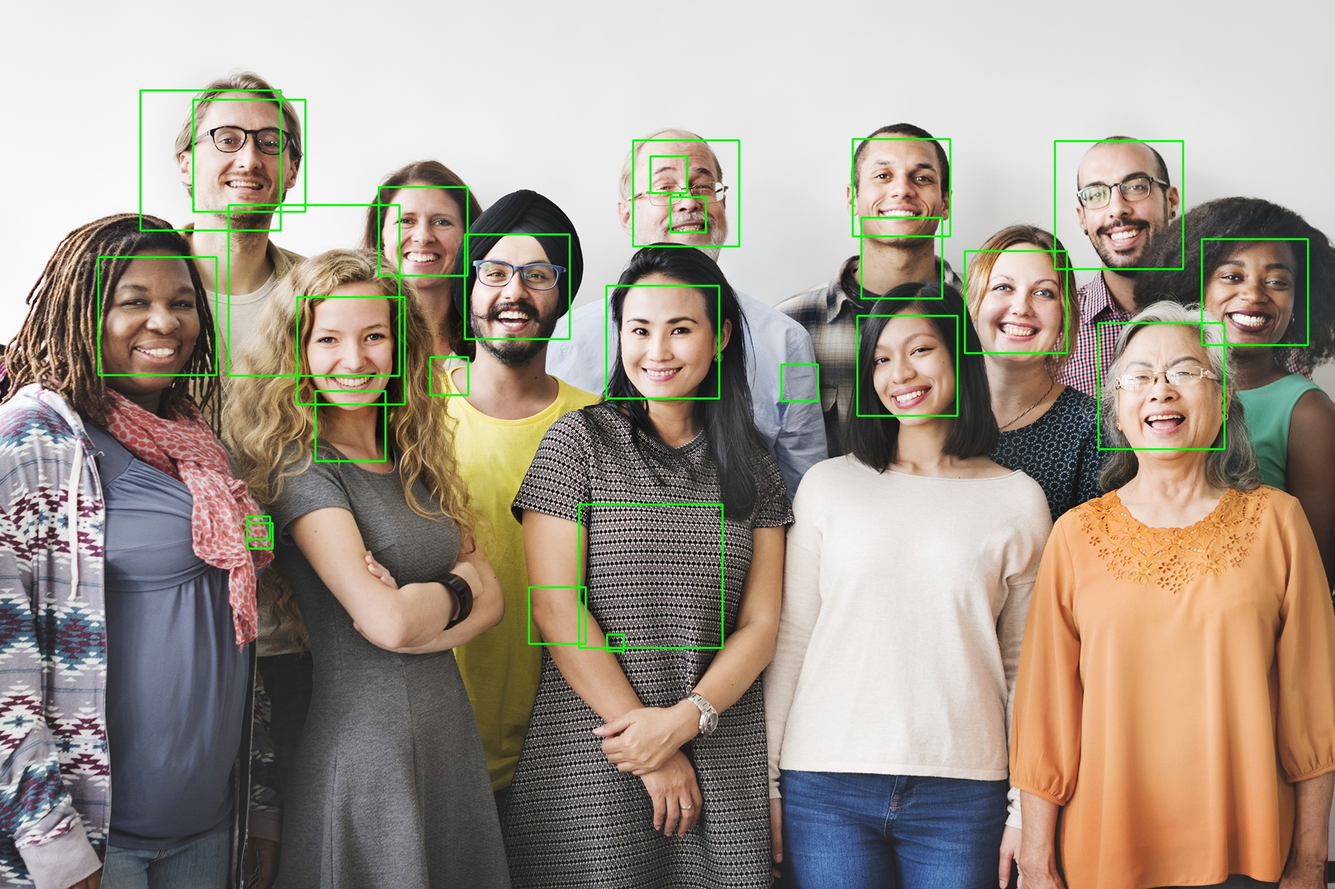
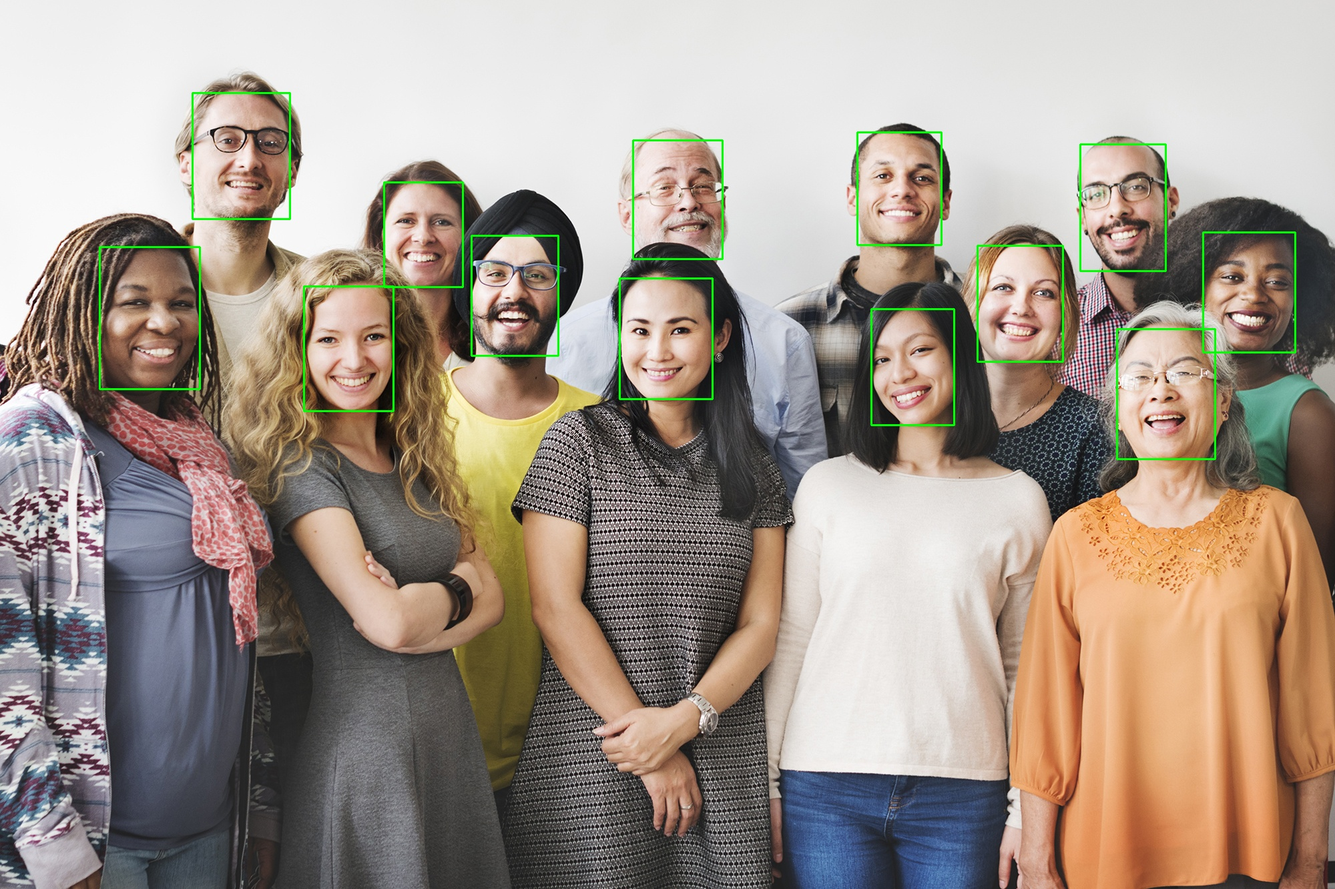
Offline Mode Update
Change Log:
- Offline Mode UI updated to reflect features in offline.py
- Results from Offline Mode test shows in Kivy window (Run time, Avg. Run Time, etc.)
- Offline backend script and new_kiv.py changed to connect to front-end.
- Offline mode name in Kivy window is changed to folder to make it clear to the user.

diff --git a/modes/offline.py b/modes/offline.py
@@ -22,24 +22,29 @@ from algorithms import mtcnn
 from algorithms import haar_cascade
 from algorithms import retina
 
-def runOffline(args):
+def runOffline(callingScript, args):
     print('Running Offline Mode')
     print('...')
     algorithm = args[0]
-    dataset = args[1]
-    limit = int(args[2])
-
+    dataset = args[1]  
     
+    if args[2] == '':
+        limit = 0
+    else:
+        limit = int(args[2])
     
-    path = config.inputPath + '/' + dataset
-    markPath = config.markingsLoc + dataset + '_markings.json'
+    markName = args[3]  
+  
+    #NOTE (SEAN VONNEGUT): Was best to get the whole path from kivy so I did not use config.markingsLoc. Let me know if it is needed.
+    path = dataset
+    markPath = dataset + '/' + markName + '.json' #JSON file must be inside the dataset folder if mark name is included.
 
     isTrained = False
-    if args[3] == 'y' :
+
+    if markName != "":
         isTrained = True
         data = utils.loadJSON(markPath)
         i = 0
-
 
     # if os.path.isfile(markPath) :
     #     data = utils.loadJSON(markPath)
@@ -51,6 +56,7 @@ def runOffline(args):
     facesDetected = 0
     confidence = 0
     totalRuntime = 0
+    totalImagesChecked = 0 #Counted instead of getting length of list since some files may have a invaild file type
     
     # Gets list paths to images in selected dataset
     images = os.listdir(path)
@@ -67,55 +73,58 @@ def runOffline(args):
         model = RetinaFace.build_model()
 
     for filename in tqdm(images) :
-        tic = utils.currentTime()
-        
-        if algorithm == 'mtcnn' :
-            result = mtcnn.getResult(path + '/' + filename, det)
-        elif algorithm == 'haar' :
-            result = haar_cascade.getResult(path + '/' + filename, det)
-        elif algorithm == 'retina' :
-            result = retina.getResult(path + '/' + filename, model)
+        if (filename[-3:] == "png") | (filename[-3:] == "jpg"): #Accepted file types
+            tic = utils.currentTime()
             
-        toc = utils.currentTime()
+            if algorithm == 'mtcnn' :
+                result = mtcnn.getResult(path + '/' + filename, det)
+            elif algorithm == 'haar' :
+                result = haar_cascade.getResult(path + '/' + filename, det)
+            elif algorithm == 'retina' :
+                result = retina.getResult(path + '/' + filename, model)
+                
+            toc = utils.currentTime()
 
-        if isTrained :
-            marks = data[i]
-            i+=1
-            isSuccess = runTest(result, marks)
-        else : 
-            isSuccess = 'na'
+            if isTrained :
+                marks = data[i]
+                i+=1
+                isSuccess = runTest(result, marks)
+            else : 
+                isSuccess = 'na'
 
-        result.setAny(
-            resultSaveLoc=config.offlineOutputPath,
-            algorithm=algorithm,
-            dateTime=utils.dateTime(),
-            runTime=round(toc-tic, 0),
-            isSuccess=isSuccess
-        )
-        
+            result.setAny(
+                resultSaveLoc=config.offlineOutputPath,
+                algorithm=algorithm,
+                dateTime=utils.dateTime(),
+                runTime=round(toc-tic, 0),
+                isSuccess=isSuccess
+            )
+            
 
-        facesDetected += len(result.get_faces())
-        totalRuntime += result.get_runTime()
+            facesDetected += len(result.get_faces())
+            totalRuntime += result.get_runTime()
+            totalImagesChecked += 1
+            
+            if algorithm != 'haar' :
 
-        if algorithm != 'haar' :
+                for conf in result.get_confidence() :
+                    confidence += conf
 
-            for conf in result.get_confidence() :
-                confidence += conf
+            # Save new image file
+            tic = utils.currentTime()
+            cv2.imwrite(config.offlineOutputPath + '/' + filename, result.get_img())
 
-        # Save new image file
-        tic = utils.currentTime()
-        cv2.imwrite(config.offlineOutputPath + '/' + filename, result.get_img())
+            result.set_img(f'{filename}')
+            utils.appendJSON(config.offlineDataLocation, result)
 
-        result.set_img(f'{filename}')
-        utils.appendJSON(config.offlineDataLocation, result)
-
-        
-    
-    
-    totalImages = len(images)
     avgConfidence = round(confidence / facesDetected, 5)
-    avgFaces = (facesDetected / totalImages)
-    avgRuntime = (totalRuntime / totalImages)
+    avgFaces = (facesDetected / totalImagesChecked)
+    avgRuntime = (totalRuntime / totalImagesChecked)
+
+    callingScript.UpdateOfflineRuntimeResult(totalRuntime)
+    callingScript.UpdateOfflineFacesDetectedResult(facesDetected)
+    callingScript.UpdateOfflineAvgRuntimeResult(avgRuntime)
+    callingScript.UpdateOfflineAvgFacesDetectedResult(avgFaces)
 
     if algorithm == 'haar' :
         avgConfidence = 'na'
@@ -147,8 +156,6 @@ def delPreviousResults() :
 
 
 def runTest(result, data) :
-
-
     faces = result.get_faces()
     img = result.get_img()
 

diff --git a/new_kiv.py b/new_kiv.py
@@ -1,15 +1,14 @@
 from kivymd.app import MDApp
 from kivy.lang import Builder
+from kivy.properties import StringProperty
 
 from modes.live import runLive
 from modes.instant import runInstant
-
-
-
-
+from modes.offline import runOffline
 
 class Test(MDApp):
-    
+    offlineRuntimeResult = StringProperty("0")
+    offlineFacesDetectedResult = StringProperty("0")
     instantImagePath = ""
     
     def runLive(self, alg) :
@@ -18,13 +17,40 @@ class Test(MDApp):
     def runInstant(self, args) :
         runInstant(args)
     
+    def runOffline(self, args):
+        runOffline(self, args)
+    
     def select_image(self, file) :
         try: 
             # self.instantImagePath = file[0]
             self.root.ids.my_image.source = file[0] # Try clause since if they click on a directory or any non-image, it won't error out
         except:
             pass
-
+    
+    def UpdateOfflineRuntimeResult(self, number):
+        try:
+            self.root.ids.offlineRunTime.text = "Run Time: " + str(number) + "ms"
+        except:
+            pass
+    
+    def UpdateOfflineFacesDetectedResult(self, number):
+        try:
+            self.root.ids.offlineFaceCounted.text = "Faces Detected: " + str(number)
+        except:
+            pass
+    
+    def UpdateOfflineAvgRuntimeResult(self, number):
+        try:
+            self.root.ids.offlineAvgRunTime.text = "Avg. Run Time: " + str(number) + "ms"
+        except:
+            pass
+    
+    def UpdateOfflineAvgFacesDetectedResult(self, number):
+        try:
+            self.root.ids.offlineAvgFaceCounted.text = "Avg. Faces Detected: " + str(number)
+        except:
+            pass
+    
     def build(self):
         self.icon = "logo.png"
         self.title = "Faceify"
